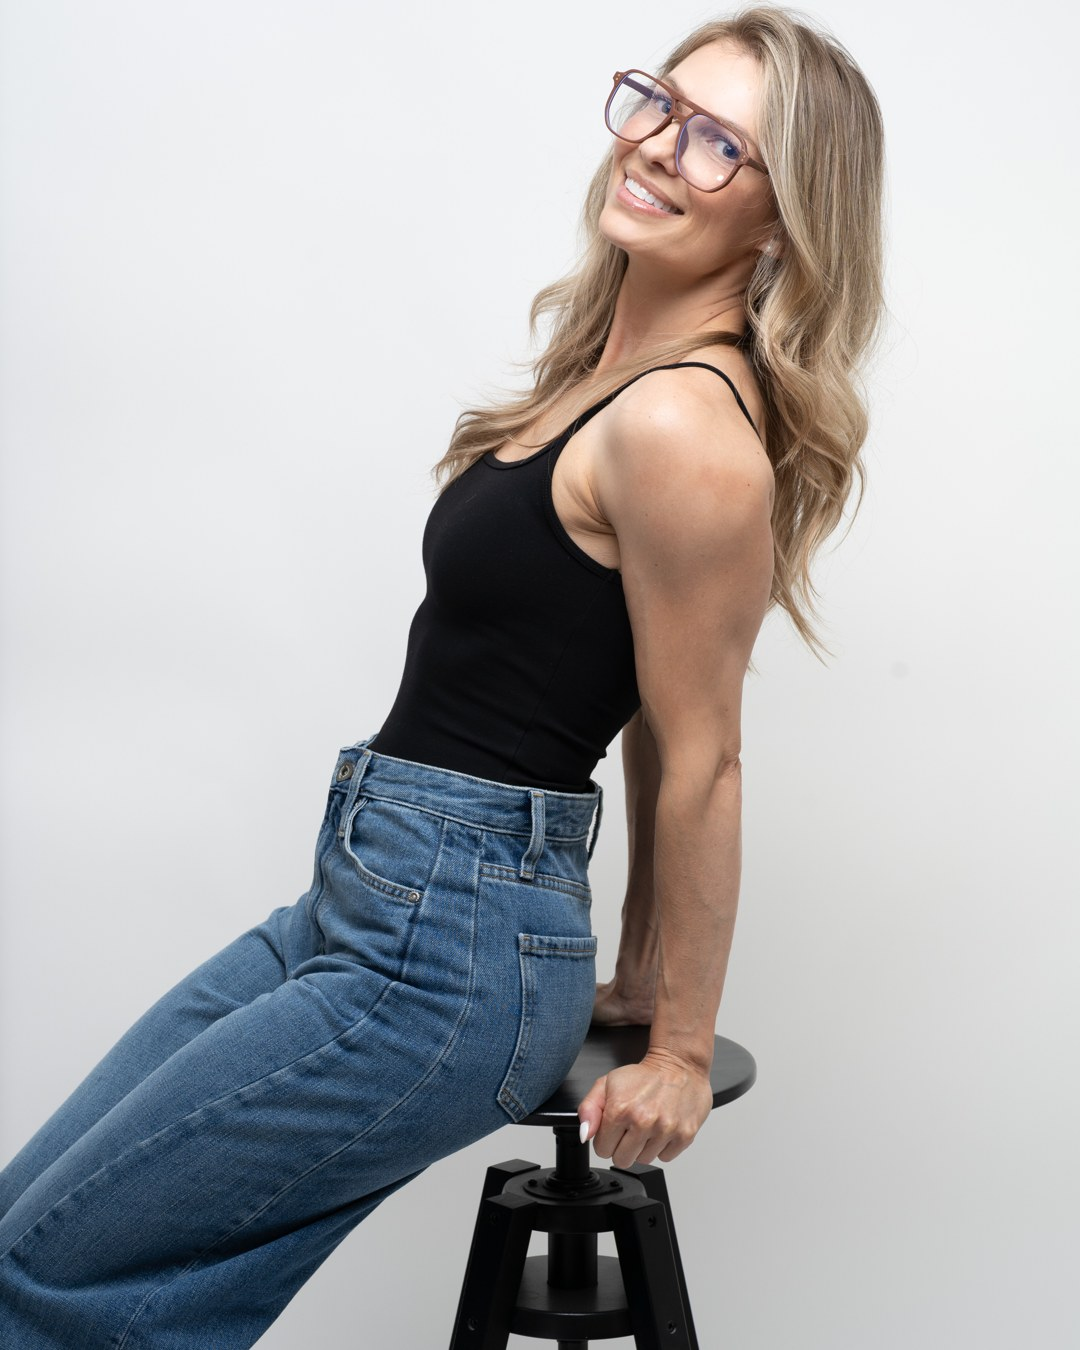
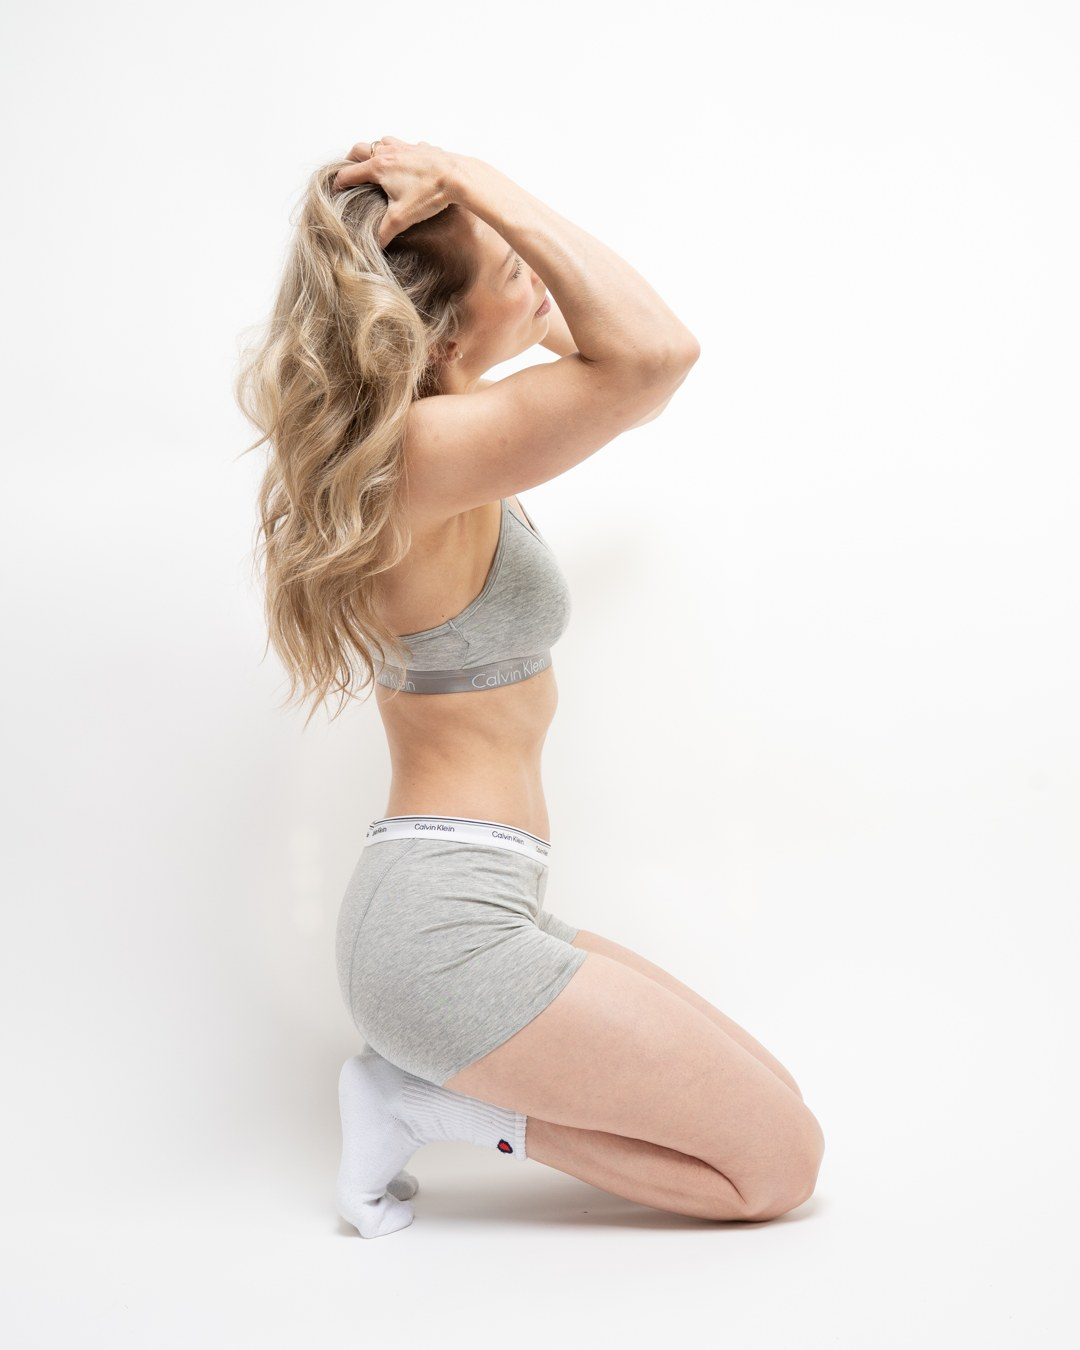
fix: use Armando's chosen Nadine frame for Nov 4 (ArmandoAscorvePhoto-26.jpg)

diff --git a/picks.py b/picks.py
@@ -3,7 +3,7 @@ PICKS = {
     "anastasiia_carousel": ("anastasiia", ["ArmandoAscorvePhoto-2.jpg", "ArmandoAscorvePhoto-3.jpg",
         "ArmandoAscorvePhoto-25.jpg", "ArmandoAscorvePhoto-26.jpg", "ArmandoAscorvePhoto-4.jpg",
         "ArmandoAscorvePhoto-9.jpg"]),
-    "photographer_hero": ("nadine", ["ArmandoAscorvePhoto-2.jpg"]),
+    "photographer_hero": ("nadine", ["ArmandoAscorvePhoto-26.jpg"]),
     "kitchen_hero": ("workshop", ["ArmandoAscorvePhoto-13.jpg"]),
     "kitchen_carousel": ("workshop", ["ArmandoAscorvePhoto-1.jpg", "ArmandoAscorvePhoto-13.jpg",
         "ArmandoAscorvePhoto-12.jpg", "ArmandoAscorvePhoto-2.jpg"]),
